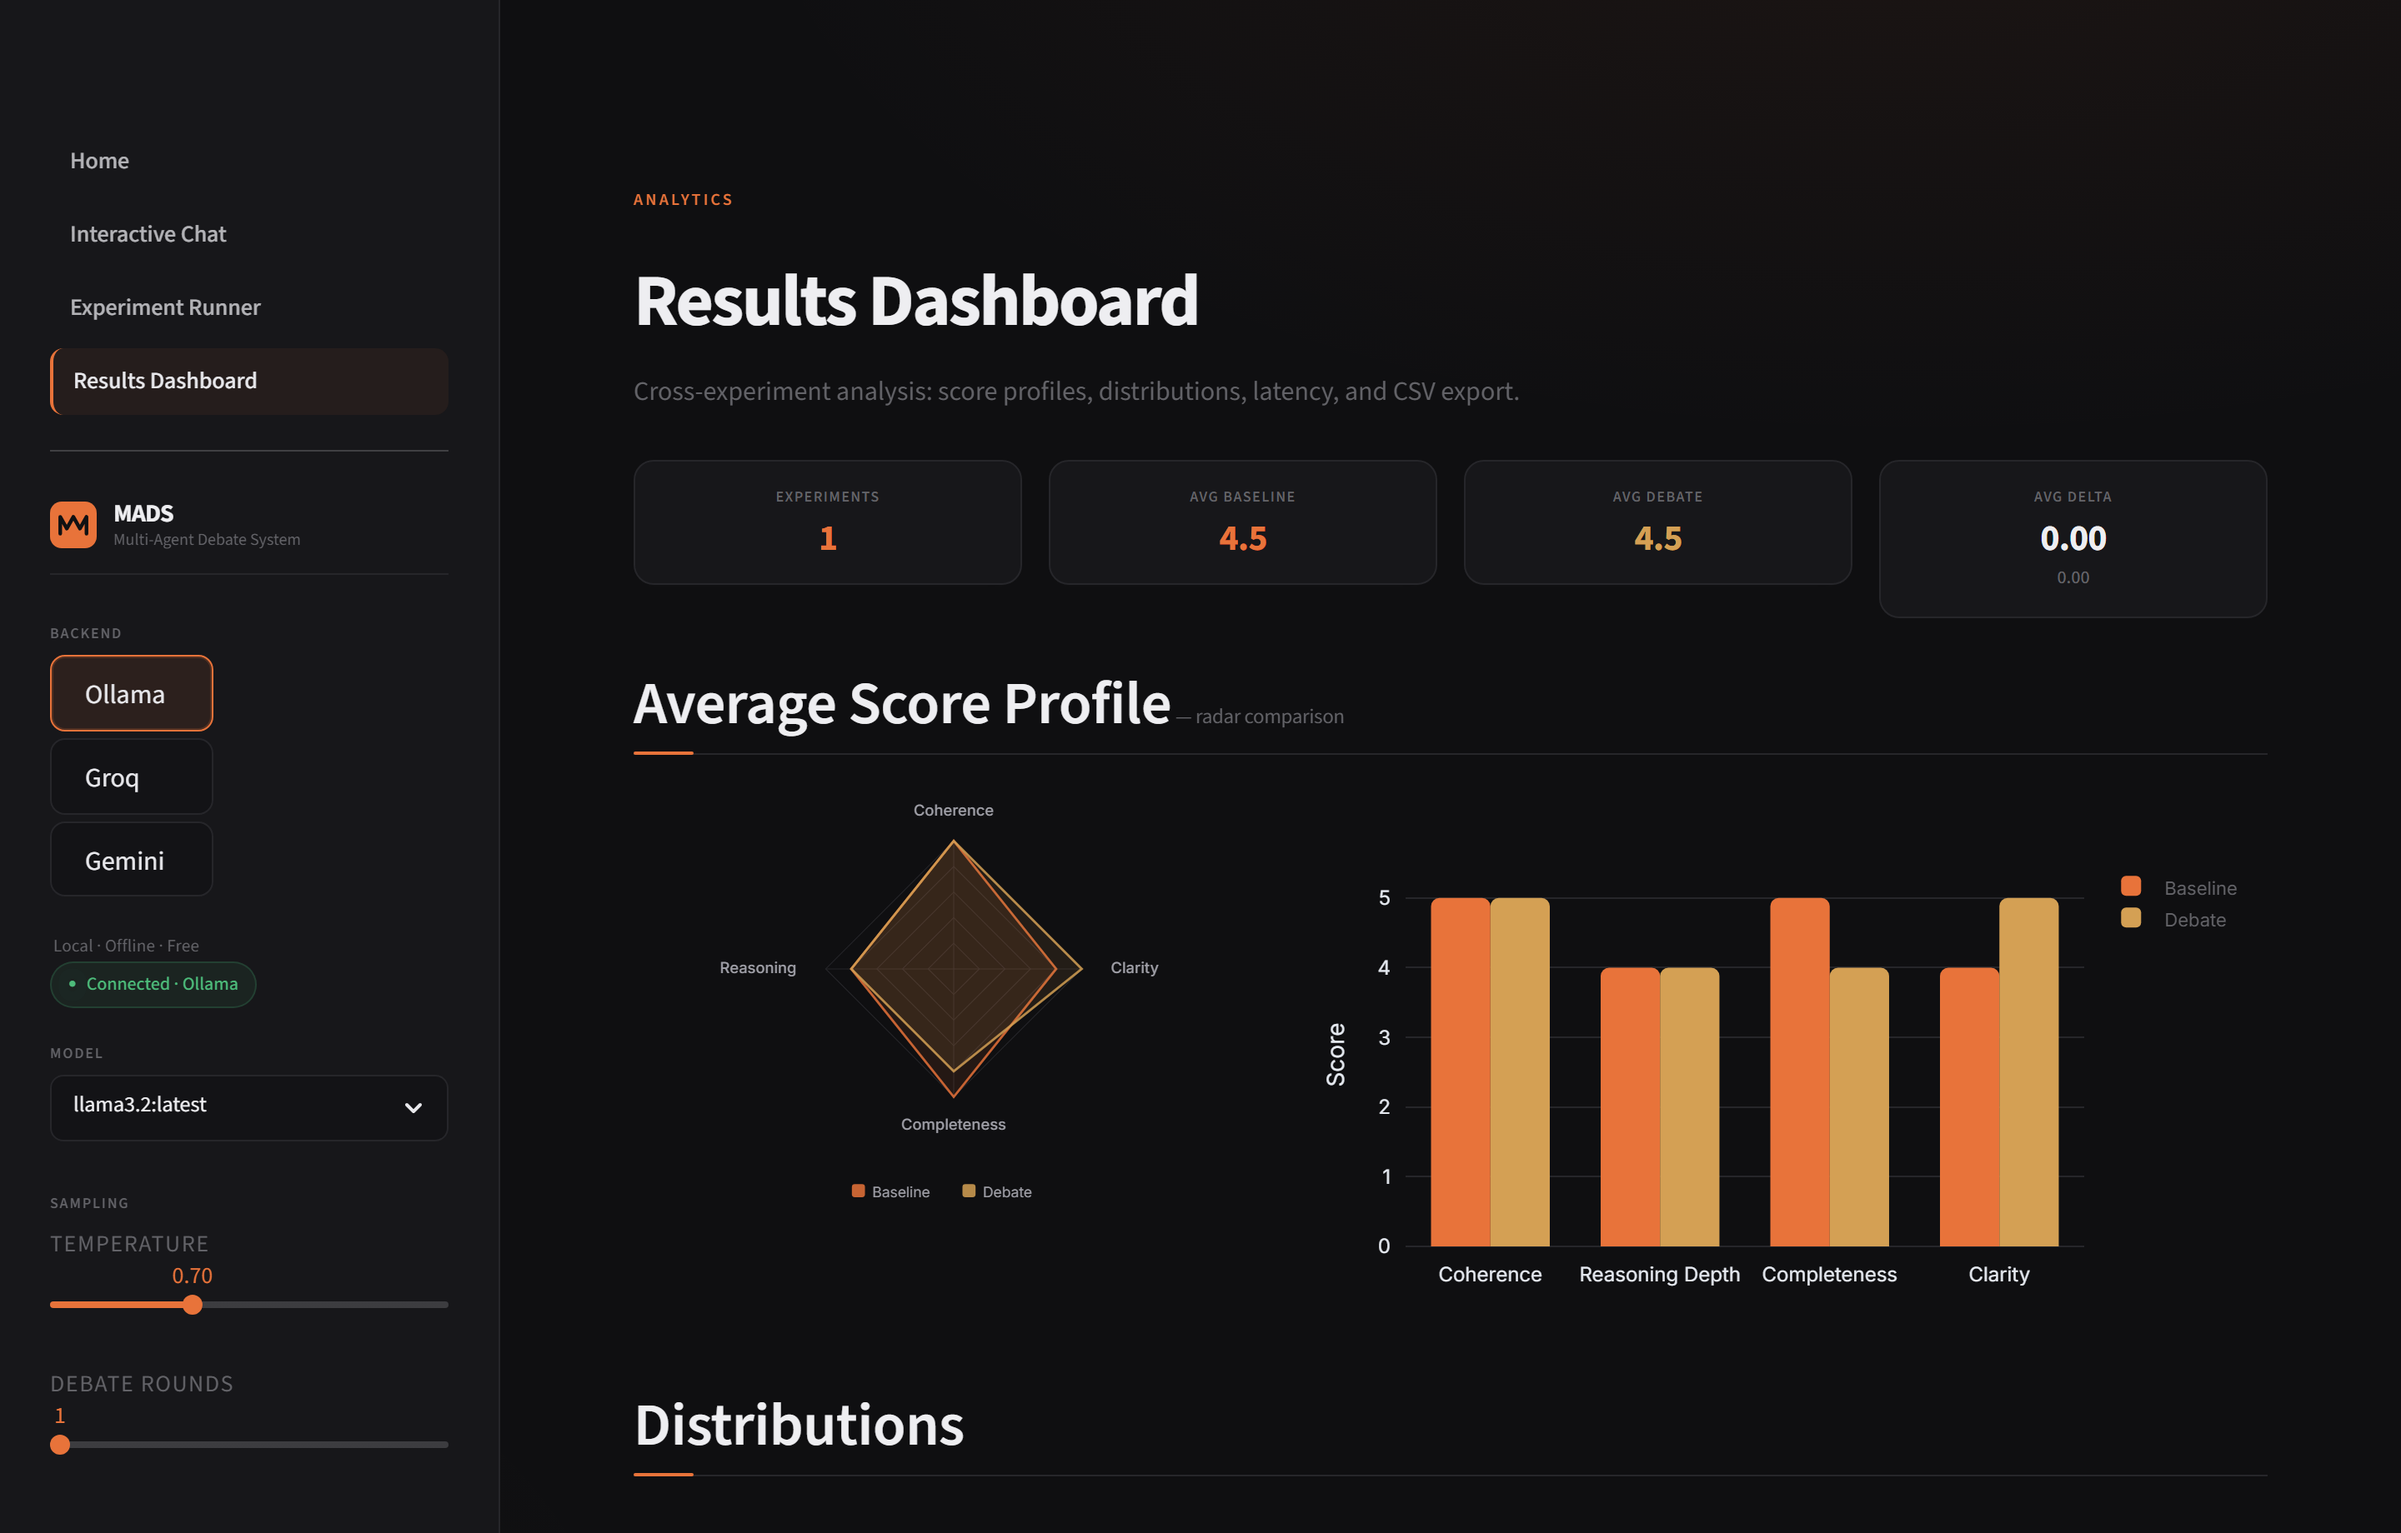
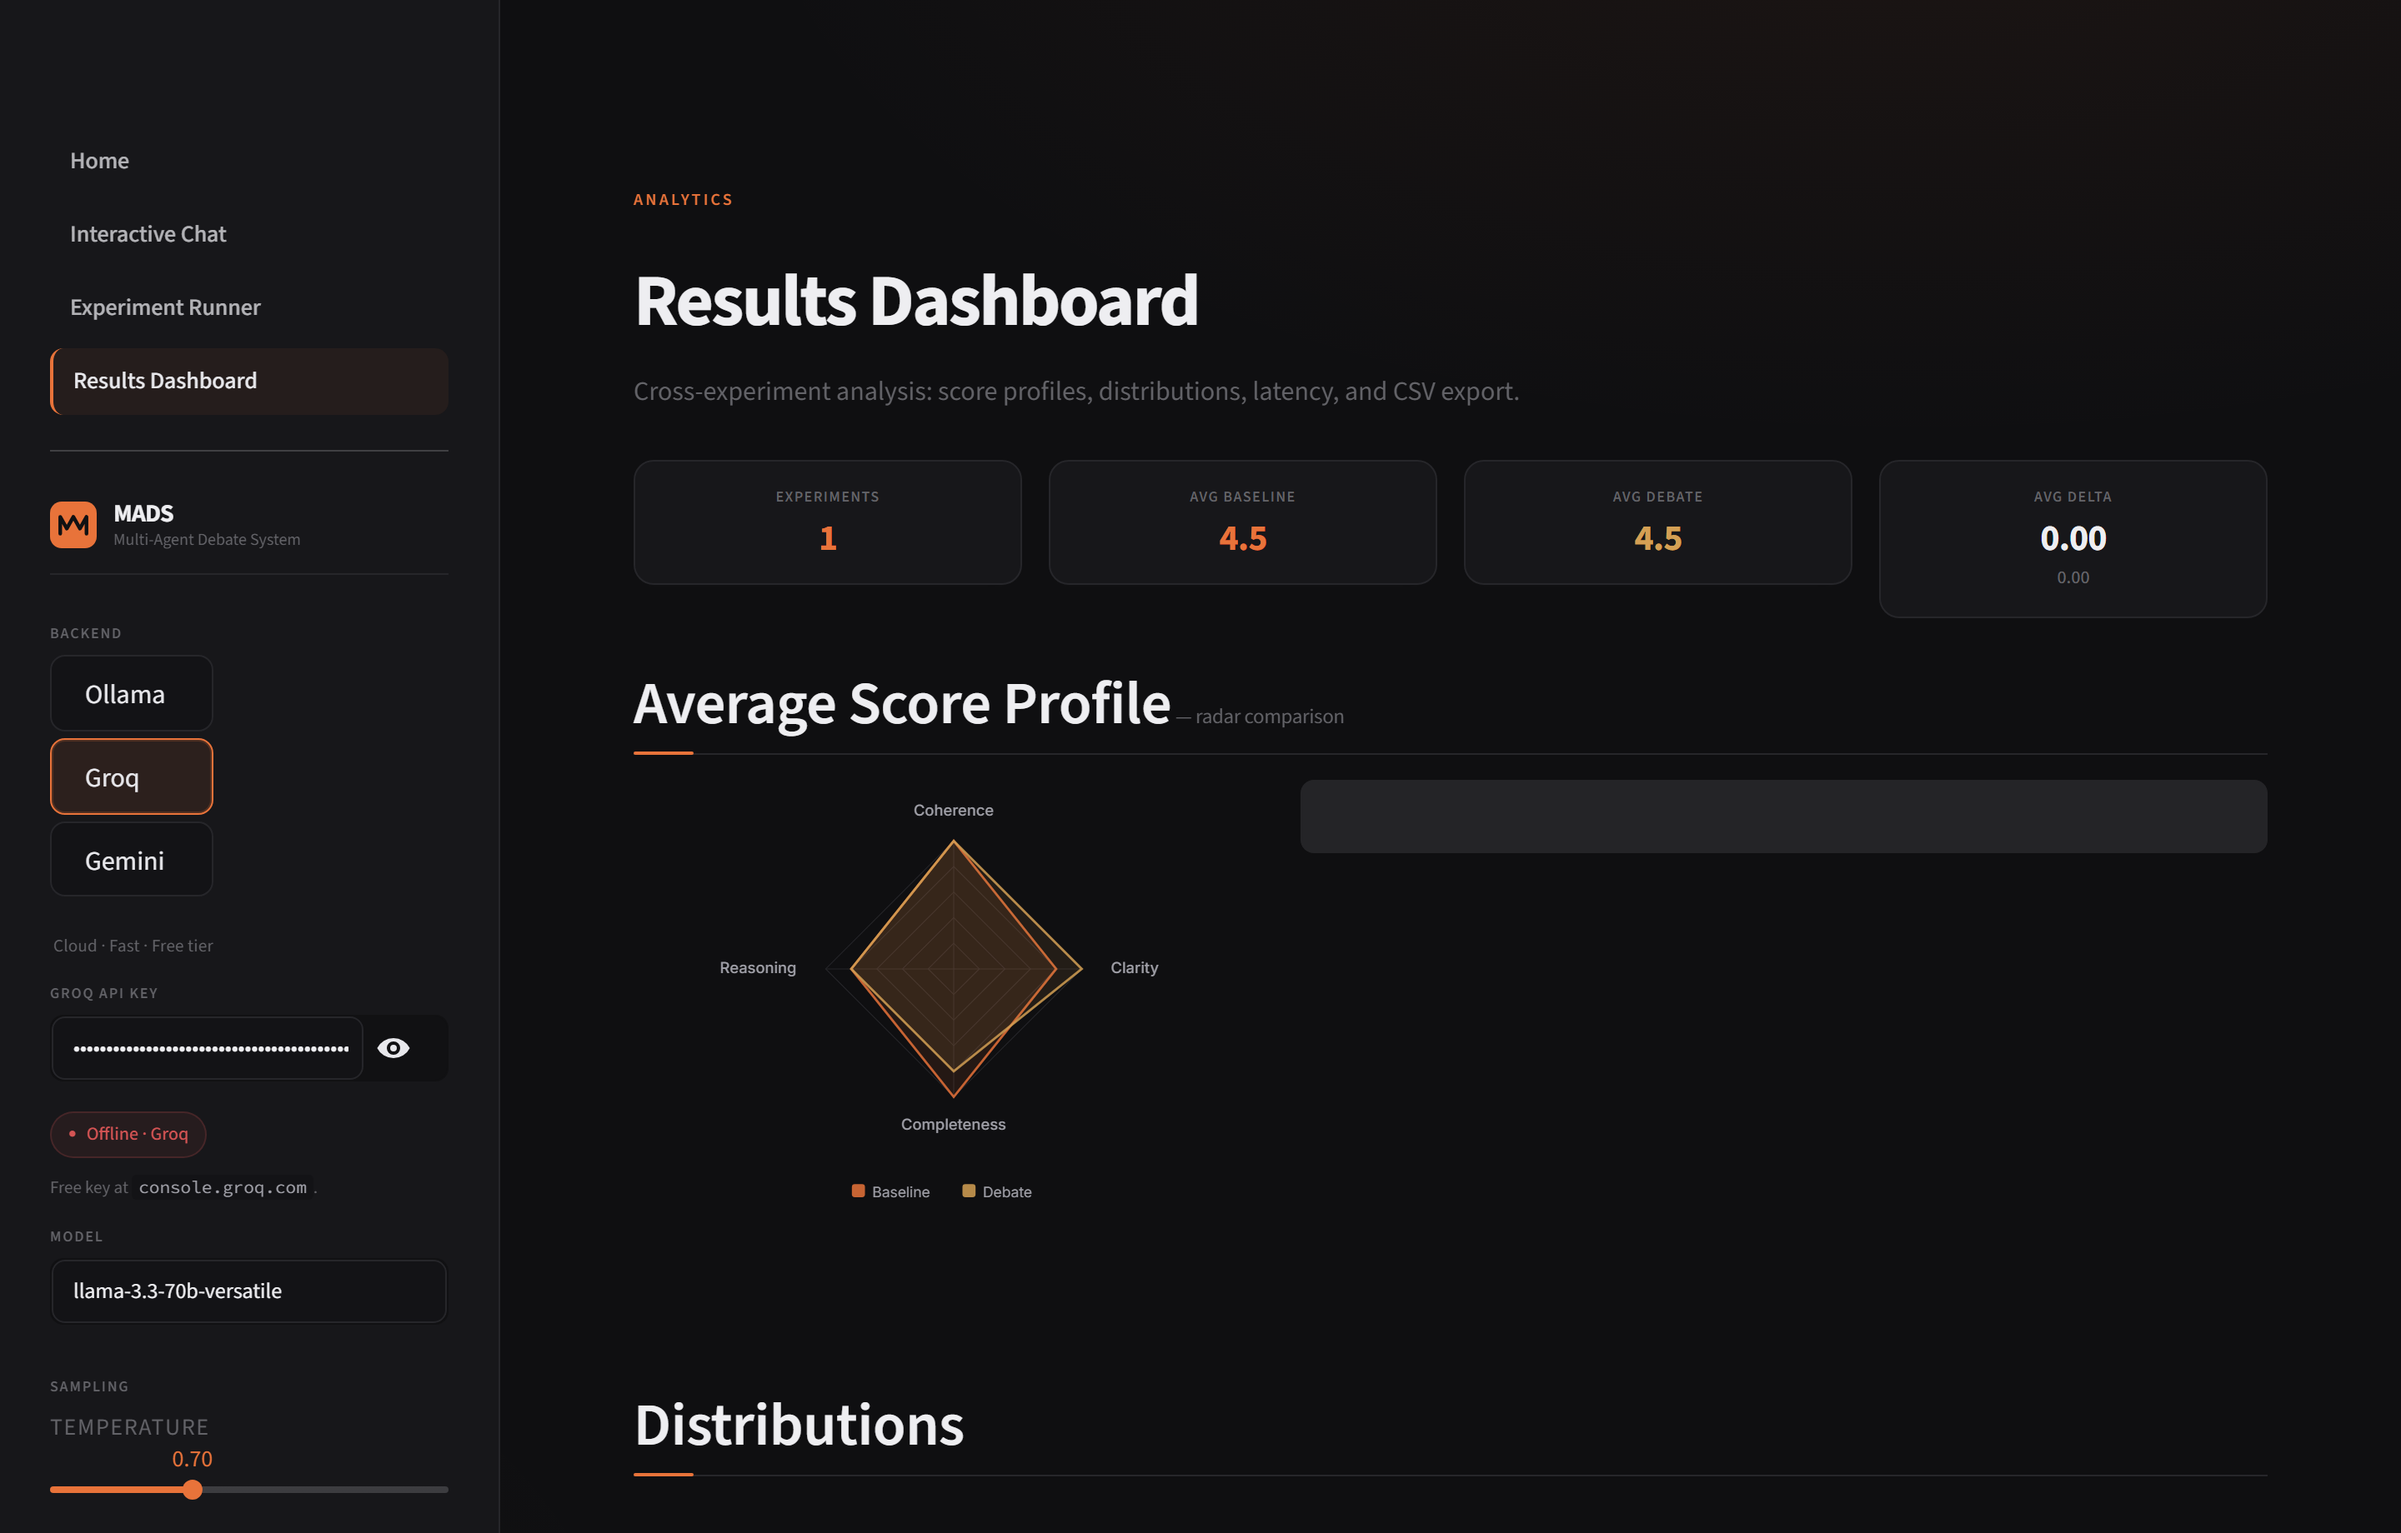
Fix Streamlit Cloud deploy: shims + smart default backend
The deployed site at multi-agent-debate-….streamlit.app was failing
because Streamlit Cloud was pinned to an entry filename that no
longer existed after the v2.1 Home.py rename.

* app.py and streamlit_app.py are now compat shims that delegate to
  Home.py via runpy, so any of the three names Streamlit Cloud
  auto-discovers ("app.py", "streamlit_app.py", or an explicitly
  configured "Home.py") boots the same UI.
* core/sidebar.py picks the default backend from the environment:
  Gemini if its key is present (most forgiving free tier), else Groq,
  else Ollama. Cloud deployments with a key in secrets now boot
  straight into a connected backend instead of the unreachable Ollama
  default.
* README's Streamlit Cloud section documents both behaviours and
  reflects that the deploy is "ready to debate the moment it boots."

Refreshed home/chat/runner/dashboard screenshots.

diff --git a/core/sidebar.py b/core/sidebar.py
@@ -44,6 +44,23 @@ def _default_model_for(backend_id: str) -> str:
     }[backend_id]
 
 
+def _smart_default_backend() -> str:
+    """
+    Pick the most useful default backend for the current environment.
+
+    On Streamlit Community Cloud there is no Ollama daemon to talk to,
+    so the historical "ollama" default lands the user on an offline
+    page. If a cloud key has been provisioned via secrets/env we prefer
+    that backend instead, with Gemini ranked above Groq because its
+    free tier is more forgiving.
+    """
+    if GEMINI_API_KEY:
+        return "gemini"
+    if GROQ_API_KEY:
+        return "groq"
+    return "ollama"
+
+
 def render_sidebar() -> dict:
     """
     Draw the shared sidebar and store the resulting state in session.
@@ -63,7 +80,7 @@ def render_sidebar() -> dict:
             format_func=lambda bid: BACKENDS[bid]["label"],
             label_visibility="collapsed",
             index=list(BACKENDS.keys()).index(
-                st.session_state.get("backend", "ollama")
+                st.session_state.get("backend", _smart_default_backend())
             ),
             key="sb_backend",
         )

diff --git a/app.py b/app.py
@@ -1,0 +1,23 @@
+"""
+Streamlit Cloud compatibility shim.
+
+Streamlit Cloud deployments often pin the *main file* to ``app.py`` (it
+is one of Streamlit's auto-discovered defaults, alongside
+``streamlit_app.py``). The canonical entry point for this project is
+``Home.py`` — that filename is what gives the sidebar nav its "Home"
+label.
+
+Rather than force every existing deployment to be reconfigured after
+the rename, we keep this shim so both names route to the same code.
+
+Streamlit re-executes the entry script on every interaction; running
+Home.py via :func:`runpy.run_path` reproduces that lifecycle exactly.
+"""
+
+from __future__ import annotations
+
+import runpy
+from pathlib import Path
+
+_HOME = Path(__file__).resolve().parent / "Home.py"
+runpy.run_path(str(_HOME), run_name="__main__")

diff --git a/streamlit_app.py b/streamlit_app.py
@@ -1,0 +1,15 @@
+"""
+Streamlit Cloud compatibility shim — same as app.py.
+
+Streamlit Cloud auto-discovers ``streamlit_app.py``; we ship one so a
+fresh deployment "just works" without reconfiguring the main file.
+See app.py for the rationale.
+"""
+
+from __future__ import annotations
+
+import runpy
+from pathlib import Path
+
+_HOME = Path(__file__).resolve().parent / "Home.py"
+runpy.run_path(str(_HOME), run_name="__main__")

diff --git a/README.md b/README.md
@@ -198,14 +198,19 @@ streamlit run Home.py
 
 ### Option D — Streamlit Community Cloud
 
-1. Fork on GitHub
-2. [share.streamlit.io](https://share.streamlit.io) → connect → deploy `Home.py`
-3. **Advanced settings → Secrets**:
+1. Fork on GitHub.
+2. [share.streamlit.io](https://share.streamlit.io) → connect → deploy.
+   The **main file** can be `Home.py` (the canonical entry) or
+   `app.py` / `streamlit_app.py` (compatibility shims that run Home);
+   any of the three works.
+3. **Advanced settings → Secrets** — add at least one cloud key:
    ```toml
-   GROQ_API_KEY   = "gsk_..."
-   GEMINI_API_KEY = "AIza..."
+   GEMINI_API_KEY = "AIza..."   # recommended — most generous free tier
+   GROQ_API_KEY   = "gsk_..."   # optional second backend
    ```
-4. Click **Deploy**.
+4. Click **Deploy**. The sidebar auto-selects the first cloud backend
+   for which a key is present, so a freshly deployed instance is
+   ready to debate the moment it boots — no Ollama needed.
 
 ---
 
